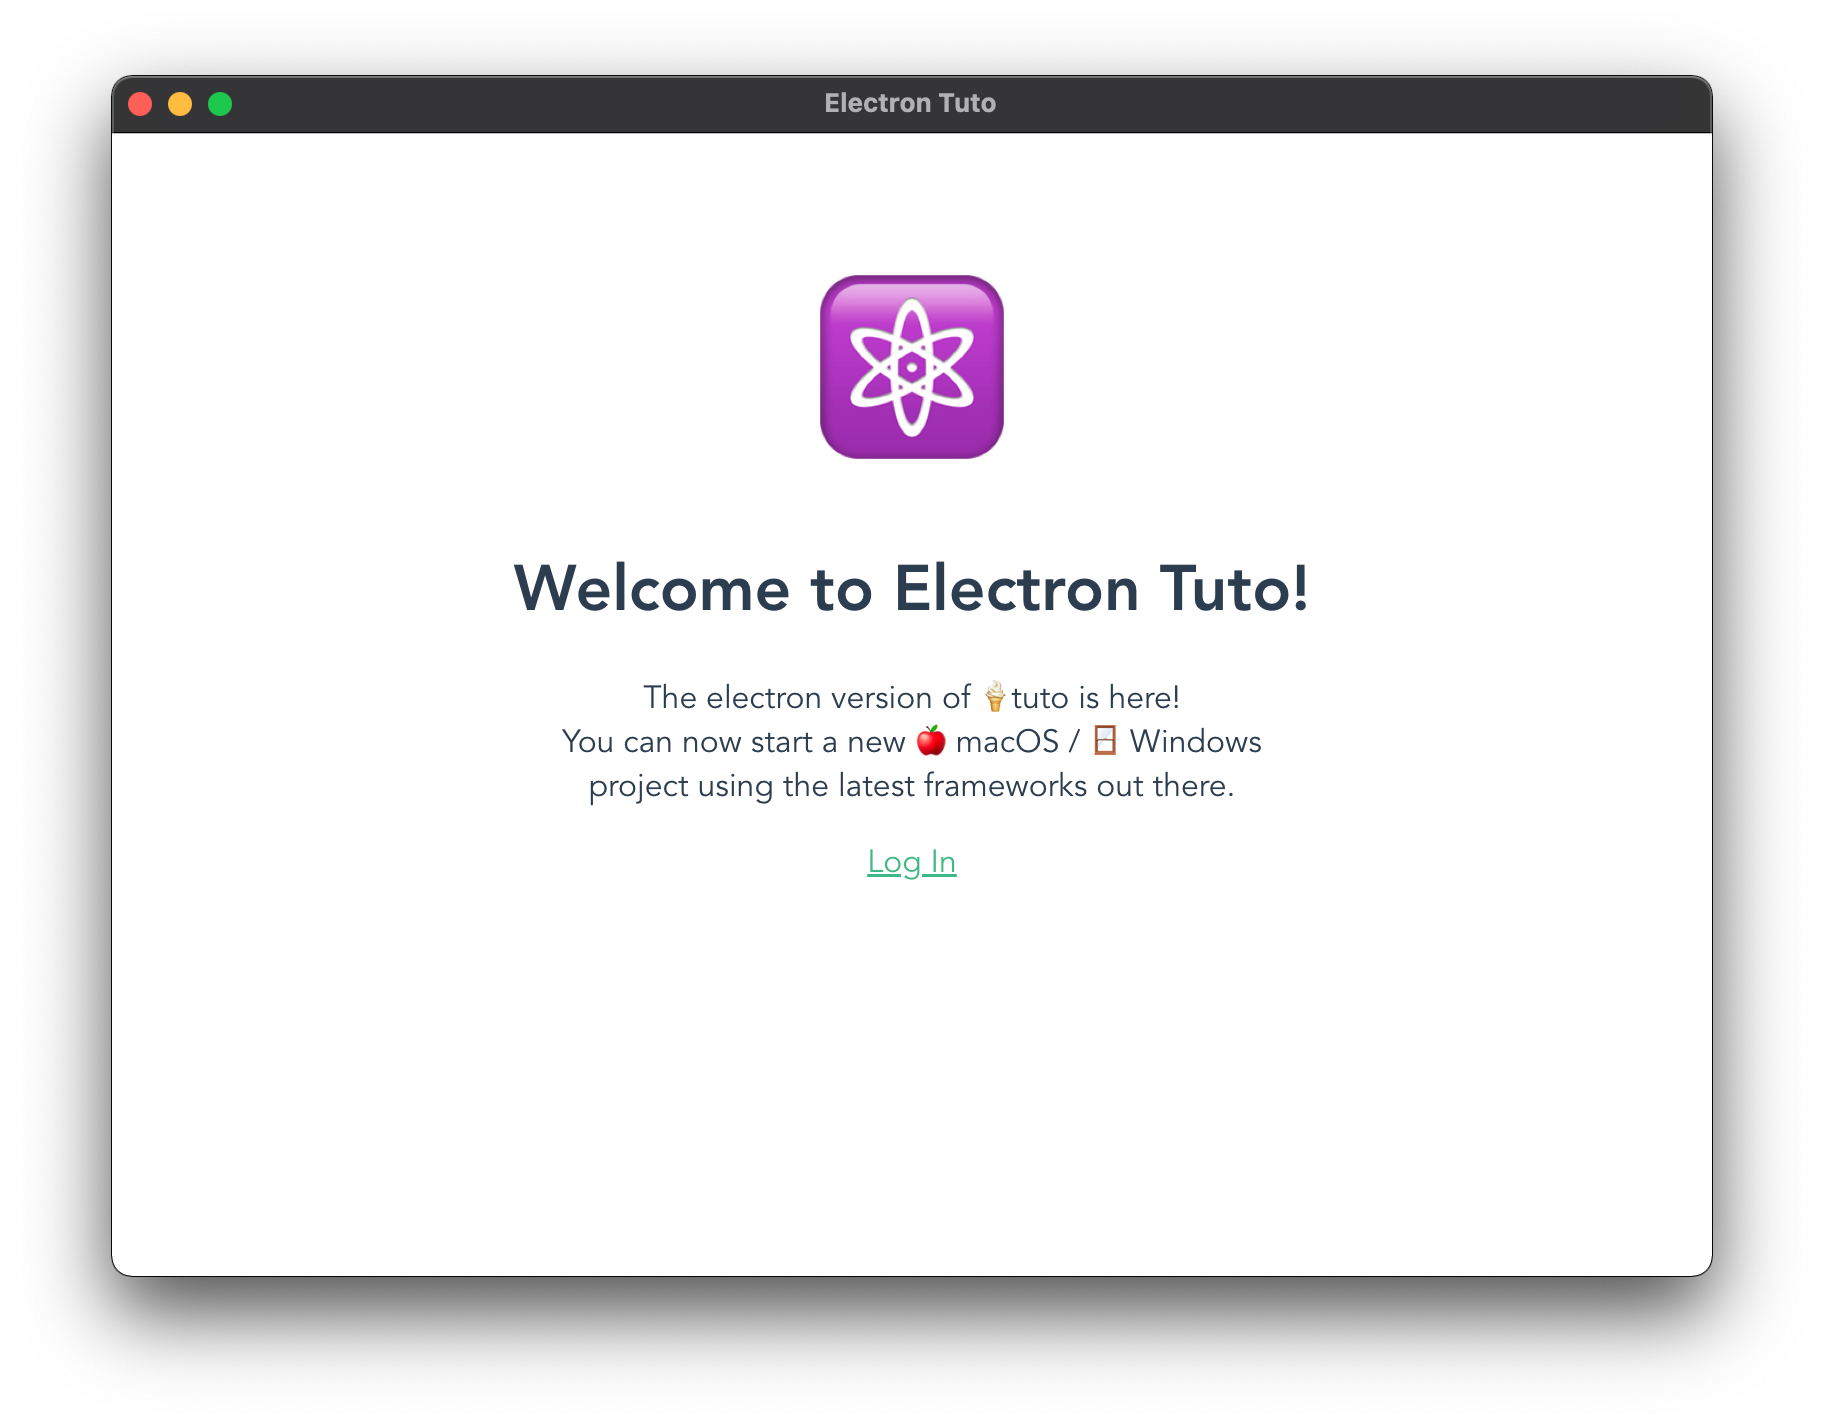
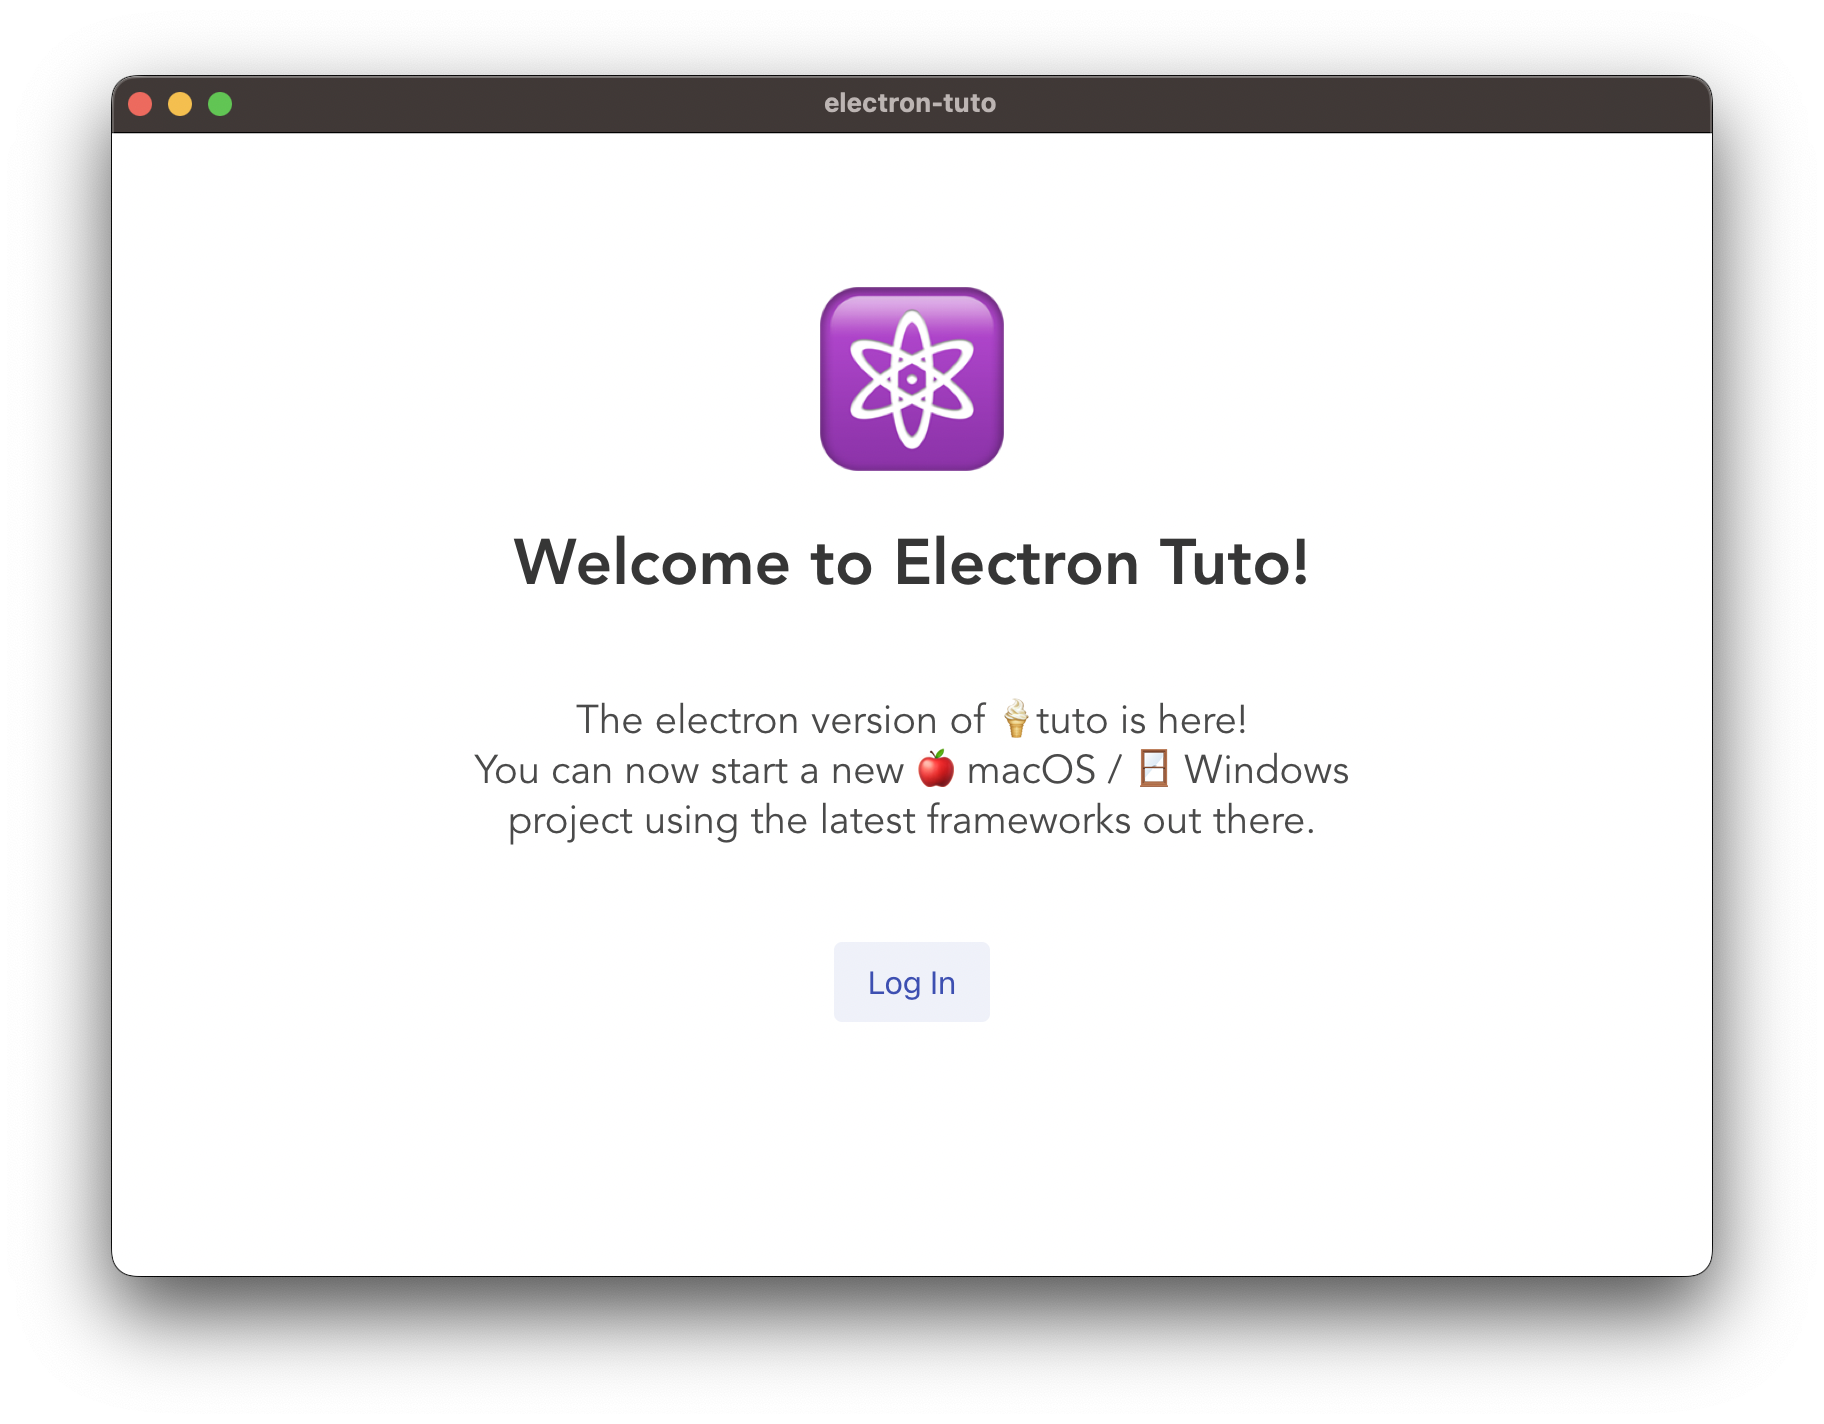
Add bulma

diff --git a/src/components/MainSection.vue b/src/components/MainSection.vue
@@ -1,15 +1,16 @@
 <template>
-  <div class="container">
-    <div class="hello">
+  <div class="columns">
+    <div class="column">
       <span>⚛</span>
-      <h1>
+      <h1 class="title">
         {{
           !userIsLoggedIn
             ? "Welcome to Electron Tuto!"
             : "You are now logged in"
         }}
       </h1>
-      <p v-if="!userIsLoggedIn">
+      <br>
+      <p class="subtitle" v-if="!userIsLoggedIn">
         The electron version of 🍦tuto is here!
         <br />
         You can now start a new 🍎 macOS / 🪟 Windows
@@ -17,7 +18,7 @@
       </p>
       <ul>
         <li v-if="userIsLoggedIn && $route.name != 'spotify'">
-          <a v-on:click="navigateToSpotify">Spotify Tracker</a>
+          <button class="button is-primary is-light mt-5 mr-5" v-on:click="navigateToSpotify">Spotify Tracker</button>
         </li>
         <slot />
       </ul>

diff --git a/src/main.js b/src/main.js
@@ -7,8 +7,8 @@
  import router from '../router.js'
  import { createPinia } from 'pinia'
  import piniaPersist from 'pinia-plugin-persist'
-//  import { useStore } from '@stores/index'
  import * as session from '@scripts/session'
+ import 'bulma/css/bulma.css'
  import "@assets/css/index.css"
  const app = createApp(App)
  const pinia = createPinia()
@@ -18,9 +18,6 @@
  
  router.beforeEach((from, to, next) => {
      // ✅ Check if user has logged in to decide if we should show the login page or not.
-    //  const store = useStore(pinia)
-    //  console.log(store)
-    //  console.log(from)
      const userIsLoggedIn = session.userIsLoggedIn(pinia)
      if (from.name != 'login' && !userIsLoggedIn) {
          next({

diff --git a/src/components/UserSessionLink.vue b/src/components/UserSessionLink.vue
@@ -1,7 +1,7 @@
 <template>
   <MainSection>
     <li>
-      <a v-on:click="login" id="btn-login">{{ !userIsLoggedIn ? "Log In" : "Log out" }}</a>
+      <button class="button is-link is-light mt-5" v-on:click="login" id="btn-login">{{ !userIsLoggedIn ? "Log In" : "Log out" }}</button>
     </li>
   </MainSection>
 </template>

diff --git a/src/pages/SpotifyTracker.vue b/src/pages/SpotifyTracker.vue
@@ -1,8 +1,8 @@
 <template>
-  <div class="container">
+  <div class="container subtitle">
     <MainSection>
       <li>
-        <a v-on:click="navigateToHome">Go Home</a>
+        <button class="button is-link is-light mt-5" v-on:click="navigateToHome">Go Home</button>
       </li>
     </MainSection>
     <br />

diff --git a/src/pages/Login.vue b/src/pages/Login.vue
@@ -1,6 +1,8 @@
 <template>
-  <div>
-    <UserSessionLink />
+  <div class="columns">
+    <div class="column">
+      <UserSessionLink />
+    </div>
   </div>
 </template>
 

diff --git a/README.md b/README.md
@@ -10,7 +10,7 @@
   </h1>
   <sup>
     <br />
-   A Electron Starter Boilerplate with Vue 3, Vue Router 4, Pinia 2, Vite 2, Eslint, Axios, Jest and More. Start creating your macOS and Windows apps right now!</em>
+   A Electron Starter Boilerplate with Vue 3, Vue Router 4, Pinia 2, Bulma, Eslint, Axios, Jest and More. Start creating your macOS and Windows apps right now!</em>
     <br />
     <br /
 
@@ -28,6 +28,7 @@
 
 - Based on [tuto](https://github.com/morellexf26/tuto.git) boilerplate.
 - Latest Electron version (v19.x).
+- ✨ Bulma.
 
 <br>
 
